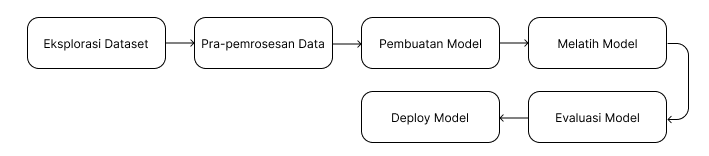
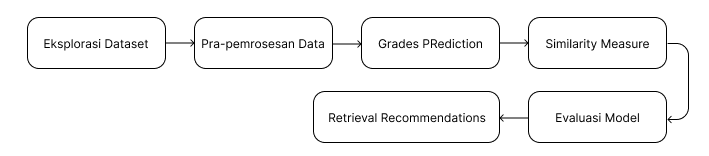
mengubah metodologi

diff --git a/konten/3-metodologi.tex b/konten/3-metodologi.tex
@@ -11,7 +11,7 @@ merupakan metodologi penelitian yang disusun sesuai dengan langkah-langkah yang 
 \end{figure}
 
 \section{Bahan dan peralatan yang digunakan}
-\begin{enumerate}[noitemsep]
+\begin{enumerate}
   \item Komputer/Laptop
   \item Python
   \item Jupyter Notebook
@@ -36,27 +36,33 @@ merupakan metodologi penelitian yang disusun sesuai dengan langkah-langkah yang 
   yang tidak diperlukan untuk proses pelatihan, menghapus \emph{missing value} jika ada, melakukan normalisasi pada data (biasanya mentransformasikan data kedalam range yang sama),
   melakukan pembagian data pelatihan dan data percobaan.
 
-  \subsection{Pembuatan Model}
-  Pembuatan model menggunakan dua pendekatan yaitu \emph{content-based filtering} dan \emph{collaborative filtering} dengan menggunakan metode \emph{Deep Learning}. Teknik
-  \emph{content-based filtering} akan merekomendasikan mata kuliah yang benar benar mirip dengan mata kuliah yang pernah dipilih oleh mahasiswa sebelumnya. Sedangkan, \emph{collaborative filtering}
-  memerlukan parameter pembanding yang akan digunakan untuk dipelajari oleh model nantinya. Pada kasus ini parameter pembanding yang akan digunakan yaitu nilai mata kuliah mahasiswa.
+  \subsection{\emph{Grades Prediction}}
+  Untuk dapat menemukan mata kuliah yang mungkin sesuai dengan minat mahasiswa, diperlukan model yang dapat memprediksi nilai mata kuliah yang kemungkinan akan diambil oleh mahasiswa. Ini
+  merupakan salah satu tahap dalam membangun sistem rekomendasi dengan pendekatan \emph{collaborative filtering} yang mana model akan memprediksi nilai yang akan didapatkan oleh mahasiswa dari berbagai mata kuliah
+  yang belum pernah diambil sebelumnya oleh mahasiswa. Nilai yang diprediksi tidak hanya berdasarkan dari riwayat pengambilan mata kuliah dari satu orang mahasiswa, namun akan dilakukan pencocokan dengan mahasiwa
+  lain yang memiliki preferensi yang saama. Setelah memprediksi nilai dari sekumpulan mata kuliah nantinya akan diambil \emph{top-N} mata kuliah dengan prediksi nilai tertinggi, setelah itu mata kuliah tersebut dapat direkomendasikan
+  kepada mahasiswa.
 
-  \subsection{Melatih Model}
-  Melakukan pelatihan pada dataset menggunakan yang telah dibuat sebelumnya untuk menemukan pola pada data dan dapat memberikan rekomendasi yang baik kepada mahasiswa.
+  \subsection{\emph{Similarity Measure}}
+  Tahap ini merupakan penerapan untuk pendekatan \emph{content-based filtering} yang mana model akan mencari kemiripan dari suatu mata kuliah, berdasarkan karakteristik yang dimiliki oleh mata kuliah tersebut.
+  Setelah mendapatkan mendapatkan daftar mata kuliah yang mirip dengan input mata kuliah yang diberikan, hasil tersebut akan dikombinasikan dengan hasil rekomendasi dari model dengan pendekatan \emph{collaborative filtering}
+  sehingga menghasilkan sistem rekomendasi dengan pendekatan \emph{hybrid recommender syste}.
 
   \subsection{Evaluasi Model}
-  Evaluasi Model dilakukan dengan melakukan rekomendasi pada data percobaan. Jika dirasa rekomendasi belum cukup baik. Maka perlu melakukan
-  \emph{tuning parameter} pada model seperti unit layer, jumlah layer pada model \emph{Deep Learning}, jumlah iterasi pelatihan dan beberapa parameter lain hingga model dapat memberikan rekomendasi dengan cukup baik.
+  Evaluasi Model dilakukan dengan melakukan rekomendasi pada data percobaan. Jika dirasa rekomendasi belum cukup baik. Maka perlu melakukan \emph{tuning parameter} pada model seperti unit layer,
+  jumlah layer pada model \emph{Deep Learning}, jumlah iterasi pelatihan dan beberapa parameter lain hingga model dapat memberikan rekomendasi dengan cukup baik.
 
-  \subsection{Deploy Model}
+  \subsection{\emph{Retrieval Recommendations}}
   Pada tahap ini model dari sistem rekomendasi yang telah dibuat sebelumnya ada dideploy atau dirilis agar dapat digunakan untuk memberikan rekomendasi melalui sebuah \emph{software}.
   \emph{Software} yang digunakan untuk menampilkan rekomendasi dari mata kuliah yang diberikan oleh model tersebut berupa website sederhana yang bisa menampilkan daftar mata kuliah
   yang direkomendasikan sesuai dengan ID/NRP dari mahasiswa.
 
   \begin{figure} [ht] \centering
-    \includegraphics[width=150mm]{gambar/mockup.png}
+    \includegraphics[width=150mm]{gambar/mockup-1.png}
+    \includegraphics[width=150mm]{gambar/mockup-2.png}
     \caption{Mock Up Tampilan Website Sederhana}
   \end{figure}
+
 \end{adjustwidth}
 
 
